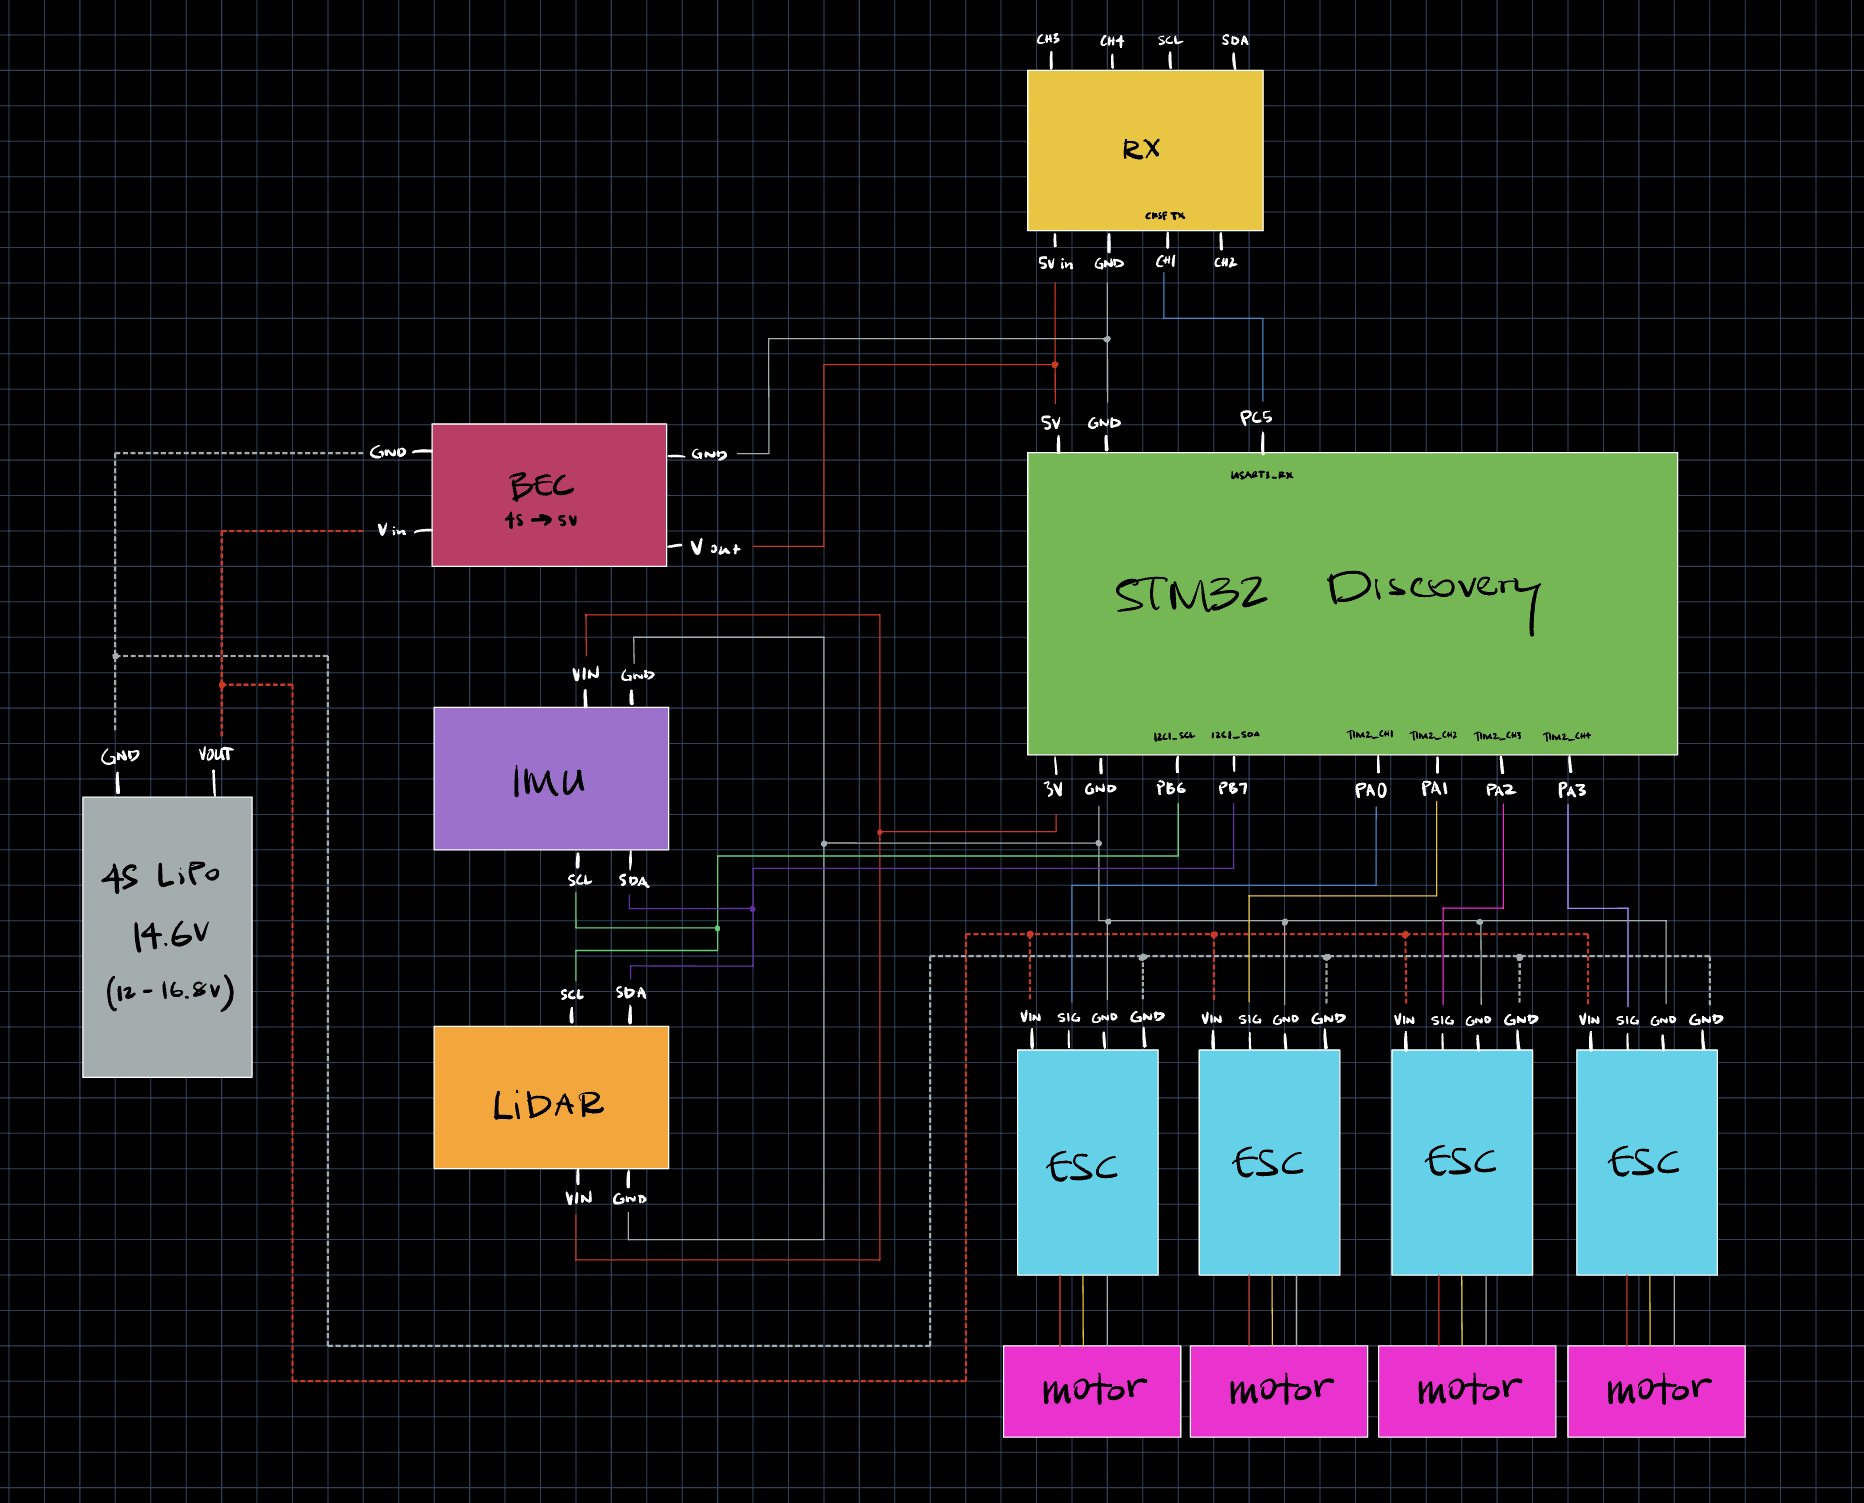
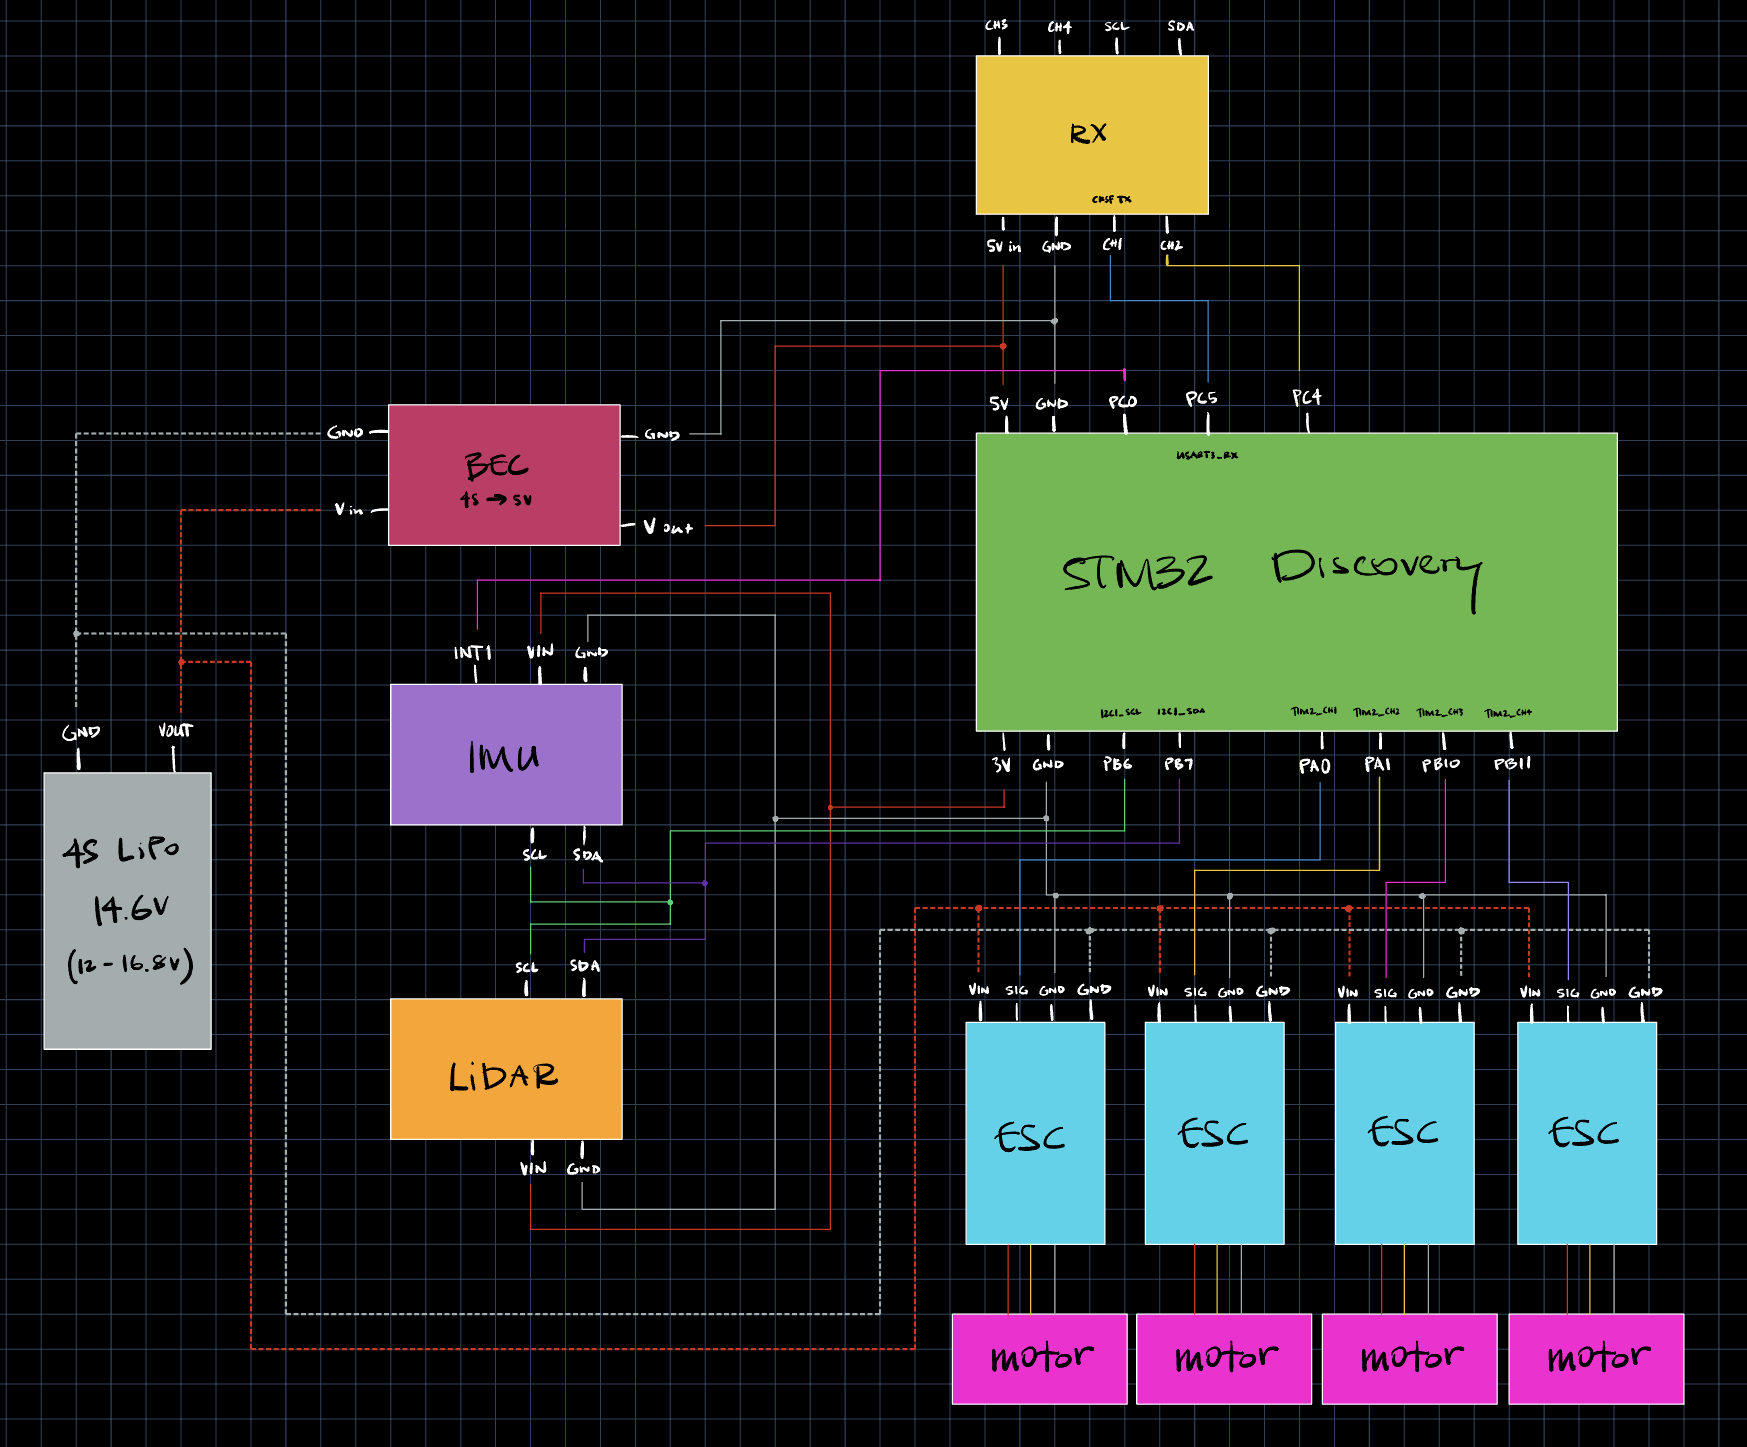
Fix formatting, update diagram, add config setup instruction

Changed region(s): [[0.0, 0.0, 1.0, 1.0], [0.5873, 0.3732, 0.8346, 0.4043]]

diff --git a/README.md b/README.md
@@ -1,11 +1,3 @@
-Generate build files:  
-`cmake -B build -S ./`  
-Compile:  
-`cmake --build build`  
-Flash to board:  
-`cmake --build build --target flash_project`  
-
-
 # ECE-5780-Project-GBJCTS: Simple Quadcopter
 This is the final project for an embedded systems design course.
 
@@ -50,6 +42,8 @@ Weekly Milestones:
 - Motor control via PWM
 - RF radio link integrated via UART
 - IMU data read via I2C
+- Hardware integrated
+- Rough PID tune
 
 
 ## Toolchain
@@ -86,6 +80,31 @@ sudo apt install stlink-tools
 #### Windows
 Recommended to use Windows Subsystem for Linux. [Install WSL](https://learn.microsoft.com/en-us/windows/wsl/install) and use the Linux instructions above.  
 
+### Setup
+Create a file called config_local.h in the /inc/ directory and copy the code below into it.
+This is local config file that allows for the independent testing of different peripherals by multiple devs. Adjust the 1s and 0s according to what peripheral is to be included in the build.
+
+```c
+/*
+THIS FILE IS GITIGNORED.
+This config file is per dev settings and overrides the default.
+*/
+
+#pragma once
+
+
+/*
+Override for what peripherals you have.
+1 = HAVE
+0 = DON'T HAVE
+*/
+#define USE_RADIO 1
+#define USE_IMU 1
+#define USE_LIDAR 0
+#define USE_MOTOR 1
+#define USE_DEBUGGER 1
+```
+
 ### Build & Flash
 Generate build files:  
 `cmake -B build -S ./` (regular build)  
@@ -95,9 +114,18 @@ Compile:
 Flash to board:  
 `cmake --build build --target flash_project`
 
+### Debug and Testing
+Run OpenOCD:  
+`openocd -f interface/stlink.cfg -f target/stm32f0x.cfg &`  
+Run GDB:  
+`arm-none-eabi-gdb build/project.elf`  
+`target remote :3333`  
+`load`  
+Then set breakpoints and step through or continue as needed.
+
 
 ## Project Info
-**Status:** Sensing and actuating peripherals 
+**Status:** Flight tests and PID tuning  
 **Language:** C  
 **License:** MIT License – see [LICENSE](./LICENSE)  
 **Authors:** [G. Bostrom](https://github.com/GunnarBostrom), [J. Canada](https://github.com/JC919), [T. Stratton](https://github.com/POACH3)  
